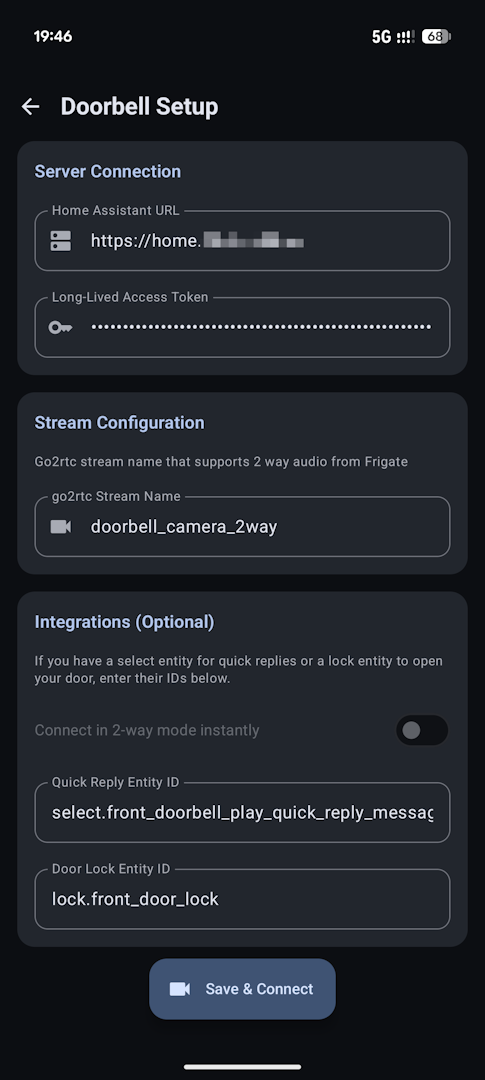
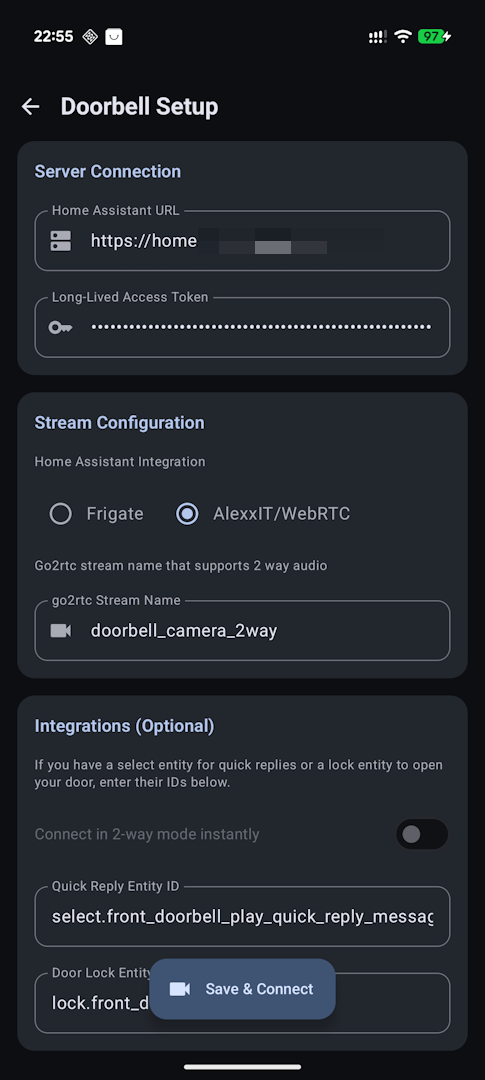
feat: add support for AlexxIT/WebRTC Integration

diff --git a/app/src/test/java/com/novasoftware/hadoorbell/integrations/HomeAssistantWebRtcClientTest.kt b/app/src/test/java/com/novasoftware/hadoorbell/integrations/HomeAssistantWebRtcClientTest.kt
@@ -13,10 +13,10 @@ import org.junit.Assert.assertEquals
 import org.junit.Before
 import org.junit.Test
 
-class FrigateSignalingClientTest {
+class HomeAssistantWebRtcClientTest {
 
     private lateinit var mockWebServer: MockWebServer
-    private lateinit var signalingClient: FrigateSignalingClient
+    private lateinit var signalingClient: HomeAssistantWebRtcClient
 
     @Before
     fun setup() {
@@ -24,7 +24,7 @@ class FrigateSignalingClientTest {
         mockWebServer.start()
 
         val baseUrl = mockWebServer.url("/").toString()
-        signalingClient = FrigateSignalingClient(
+        signalingClient = HomeAssistantWebRtcClient(
             haUrl = baseUrl,
             token = "test_token",
             streamName = "front_door"
@@ -42,7 +42,8 @@ class FrigateSignalingClientTest {
     }
 
     @Test
-    fun `connect authenticates and connects to stream websocket`() = runBlocking {
+    fun `connect authenticates and connects to stream websocket using default frigate provider`() = runBlocking {
+        var isPathCorrect = false
         // We need to enqueue a WebSocket response for the auth phase
         mockWebServer.enqueue(MockResponse().withWebSocketUpgrade(object : WebSocketListener() {
             override fun onOpen(webSocket: WebSocket, response: Response) {
@@ -56,6 +57,7 @@ class FrigateSignalingClientTest {
                 if (text.contains("auth\"") && text.contains("test_token")) {
                     webSocket.send("""{"type": "auth_ok"}""")
                 } else if (text.contains("auth/sign_path")) {
+                    isPathCorrect = text.contains("api/frigate/frigate/mse/api/ws")
                     // Send back a successful signed path pointing to a second mock websocket
                     webSocket.send("""
                         {
@@ -104,5 +106,52 @@ class FrigateSignalingClientTest {
         assertEquals("mock_ice_candidate", candidate)
         
         signalingClient.disconnect()
+        
+        // Assert the correct path was requested
+        assert(isPathCorrect)
+    }
+
+    @Test
+    fun `connect authenticates and connects to stream websocket using webrtc provider`() = runBlocking {
+        var isPathCorrect = false
+        val webrtcClient = HomeAssistantWebRtcClient(
+            haUrl = mockWebServer.url("/").toString(),
+            token = "test_token",
+            streamName = "front_door",
+            provider = "webrtc"
+        )
+
+        mockWebServer.enqueue(MockResponse().withWebSocketUpgrade(object : WebSocketListener() {
+            override fun onOpen(webSocket: WebSocket, response: Response) {
+                webSocket.send("""{"type": "auth_required"}""")
+            }
+
+            override fun onMessage(webSocket: WebSocket, text: String) {
+                if (text.contains("auth\"") && text.contains("test_token")) {
+                    webSocket.send("""{"type": "auth_ok"}""")
+                } else if (text.contains("auth/sign_path")) {
+                    isPathCorrect = text.contains("api/webrtc/ws")
+                    webSocket.send("""
+                        {
+                            "id": 1,
+                            "type": "result",
+                            "success": true,
+                            "result": { "path": "/api/stream/ws" }
+                        }
+                    """.trimIndent())
+                }
+            }
+        }))
+
+        mockWebServer.enqueue(MockResponse().withWebSocketUpgrade(object : WebSocketListener() {
+            override fun onOpen(webSocket: WebSocket, response: Response) {}
+            override fun onMessage(webSocket: WebSocket, text: String) {}
+        }))
+
+        webrtcClient.connect()
+        webrtcClient.disconnect()
+
+        // Assert the correct path was requested
+        assert(isPathCorrect)
     }
 }

diff --git a/app/src/main/java/com/novasoftware/hadoorbell/ui/screens/SettingsScreen.kt b/app/src/main/java/com/novasoftware/hadoorbell/ui/screens/SettingsScreen.kt
@@ -62,6 +62,7 @@ fun SettingsScreen(
     var quickReplyEntityId by remember { mutableStateOf("") }
     var lockEntityId by remember { mutableStateOf("") }
     var instantTwoWayAudio by remember { mutableStateOf(false) }
+    var webrtcProvider by remember { mutableStateOf("frigate") }
 
     // Load initial values
     LaunchedEffect(Unit) {
@@ -81,6 +82,9 @@ fun SettingsScreen(
     }
     LaunchedEffect(Unit) {
         appPreferences.instantTwoWayAudioFlow.collect { instantTwoWayAudio = it }
+    }
+    LaunchedEffect(Unit) {
+        appPreferences.webrtcProviderFlow.collect { webrtcProvider = it }
     }
 
     LaunchedEffect(quickReplyEntityId) {
@@ -109,7 +113,7 @@ fun SettingsScreen(
             ExtendedFloatingActionButton(
                 onClick = {
                     coroutineScope.launch {
-                        appPreferences.saveSettings(url, token, streamSource, quickReplyEntityId, lockEntityId, instantTwoWayAudio)
+                        appPreferences.saveSettings(url, token, streamSource, quickReplyEntityId, lockEntityId, instantTwoWayAudio, webrtcProvider)
                         onSave()
                     }
                 },
@@ -194,7 +198,33 @@ fun SettingsScreen(
                     )
                     
                     Text(
-                        "Go2rtc stream name that supports 2 way audio from Frigate",
+                        "Home Assistant Integration",
+                        style = MaterialTheme.typography.bodySmall,
+                        color = MaterialTheme.colorScheme.onSurfaceVariant
+                    )
+
+                    Row(
+                        modifier = Modifier.fillMaxWidth(),
+                        horizontalArrangement = Arrangement.spacedBy(16.dp)
+                    ) {
+                        Row(verticalAlignment = Alignment.CenterVertically) {
+                            androidx.compose.material3.RadioButton(
+                                selected = webrtcProvider == "frigate",
+                                onClick = { webrtcProvider = "frigate" }
+                            )
+                            Text("Frigate")
+                        }
+                        Row(verticalAlignment = Alignment.CenterVertically) {
+                            androidx.compose.material3.RadioButton(
+                                selected = webrtcProvider == "webrtc",
+                                onClick = { webrtcProvider = "webrtc" }
+                            )
+                            Text("AlexxIT/WebRTC")
+                        }
+                    }
+                    
+                    Text(
+                        "Go2rtc stream name that supports 2 way audio",
                         style = MaterialTheme.typography.bodySmall,
                         color = MaterialTheme.colorScheme.onSurfaceVariant
                     )

diff --git a/app/src/main/java/com/novasoftware/hadoorbell/ui/screens/StreamScreen.kt b/app/src/main/java/com/novasoftware/hadoorbell/ui/screens/StreamScreen.kt
@@ -4,7 +4,7 @@ import android.widget.Toast
 import androidx.compose.animation.core.*
 import com.novasoftware.hadoorbell.data.AppPreferences
 import com.novasoftware.hadoorbell.integrations.HomeAssistantApiClient
-import com.novasoftware.hadoorbell.integrations.FrigateSignalingClient
+import com.novasoftware.hadoorbell.integrations.HomeAssistantWebRtcClient
 import com.novasoftware.hadoorbell.webrtc.WebRtcManager
 import androidx.compose.foundation.background
 import androidx.compose.foundation.clickable
@@ -98,6 +98,7 @@ fun StreamScreen(
                     val url = appPreferences.haUrlFlow.first() ?: ""
                     val token = appPreferences.haTokenFlow.first() ?: ""
                     val streamSource = appPreferences.streamSourceFlow.first() ?: ""
+                    val provider = appPreferences.webrtcProviderFlow.first()
                     quickReplyEntityId = appPreferences.quickReplyEntityIdFlow.first() ?: ""
                     lockEntityId = appPreferences.lockEntityIdFlow.first() ?: ""
                     
@@ -114,7 +115,7 @@ fun StreamScreen(
                         }
                     }
 
-                    val signalingClient = FrigateSignalingClient(url, token, streamSource)
+                    val signalingClient = HomeAssistantWebRtcClient(url, token, streamSource, provider)
 
                     webRtcManager = WebRtcManager(context, signalingClient, coroutineScope)
                 }
@@ -315,8 +316,9 @@ fun StreamScreen(
                             val url = appPreferences.haUrlFlow.first() ?: ""
                             val token = appPreferences.haTokenFlow.first() ?: ""
                             val streamSource = appPreferences.streamSourceFlow.first() ?: ""
+                            val provider = appPreferences.webrtcProviderFlow.first()
                             
-                            val signalingClient = FrigateSignalingClient(url, token, streamSource)
+                            val signalingClient = HomeAssistantWebRtcClient(url, token, streamSource, provider)
                             webRtcManager = WebRtcManager(context, signalingClient, coroutineScope)
                             isSwitchingModes = false
                         }

diff --git a/app/src/test/java/com/novasoftware/hadoorbell/ui/screens/SettingsScreenTest.kt b/app/src/test/java/com/novasoftware/hadoorbell/ui/screens/SettingsScreenTest.kt
@@ -57,7 +57,7 @@ class SettingsScreenTest {
         composeTestRule.onNodeWithText("Doorbell Setup").assertIsDisplayed()
         composeTestRule.onNodeWithText("Home Assistant URL").assertIsDisplayed()
         composeTestRule.onNodeWithText("Long-Lived Access Token").assertIsDisplayed()
-        composeTestRule.onNodeWithText("go2rtc Stream Name").assertIsDisplayed()
+        composeTestRule.onNodeWithText("go2rtc Stream Name").performScrollTo().assertIsDisplayed()
         composeTestRule.onNodeWithText("Quick Reply Entity ID").performScrollTo().assertIsDisplayed()
         composeTestRule.onNodeWithText("Door Lock Entity ID").performScrollTo().assertIsDisplayed()
         composeTestRule.onNodeWithText("Save & Connect", useUnmergedTree = true).assertIsDisplayed()
@@ -83,6 +83,7 @@ class SettingsScreenTest {
             .performTextInput("http://test.local:8123")
         
         composeTestRule.onNodeWithText("go2rtc Stream Name")
+            .performScrollTo()
             .performTextInput("camera1")
 
         // Click save
@@ -137,5 +138,26 @@ class SettingsScreenTest {
         switchNode.performClick()
         composeTestRule.waitForIdle()
         switchNode.assertIsOn()
+    }
+
+    @Test
+    fun `webrtc provider options are displayed and can be selected`() {
+        composeTestRule.setContent {
+            androidx.compose.material3.MaterialTheme {
+                SettingsScreen(
+                    appPreferences = appPreferences,
+                    onSave = {}, onCancel = {}, canCancel = false
+                )
+            }
+        }
+
+        // Verify elements exist
+        composeTestRule.onNodeWithText("Home Assistant Integration").performScrollTo().assertIsDisplayed()
+        composeTestRule.onNodeWithText("Frigate").performScrollTo().assertIsDisplayed()
+        composeTestRule.onNodeWithText("AlexxIT/WebRTC").performScrollTo().assertIsDisplayed()
+
+        // Select AlexxIT/WebRTC
+        composeTestRule.onNodeWithText("AlexxIT/WebRTC").performScrollTo().performClick()
+        composeTestRule.waitForIdle()
     }
 }

diff --git a/app/src/main/java/com/novasoftware/hadoorbell/integrations/HomeAssistantWebRtcClient.kt b/app/src/main/java/com/novasoftware/hadoorbell/integrations/HomeAssistantWebRtcClient.kt
@@ -11,10 +11,11 @@ import kotlinx.coroutines.CoroutineScope
 import kotlinx.coroutines.Dispatchers
 import kotlinx.coroutines.launch
 
-class FrigateSignalingClient(
+class HomeAssistantWebRtcClient(
     private val haUrl: String,
     private val token: String,
-    private val streamName: String
+    private val streamName: String,
+    private val provider: String = "frigate"
 ) {
 
     private val client = OkHttpClient()
@@ -39,7 +40,11 @@ class FrigateSignalingClient(
                         val authMsg = mapOf("type" to "auth", "access_token" to token)
                         webSocket.send(gson.toJson(authMsg))
                     } else if (type == "auth_ok") {
-                        val path = "/api/frigate/frigate/mse/api/ws?src=$streamName"
+                        val path = if (provider == "webrtc") {
+                            "/api/webrtc/ws?url=$streamName"
+                        } else {
+                            "/api/frigate/frigate/mse/api/ws?src=$streamName"
+                        }
                         val signMsg = mapOf(
                             "id" to 1,
                             "type" to "auth/sign_path",
@@ -116,12 +121,12 @@ class FrigateSignalingClient(
                                 pendingOfferContinuation = null
                             }
                         } catch (e: Exception) {
-                            Log.e("FrigateSignaling", "Error parsing message", e)
+                            Log.e("HomeAssistantWebRtc", "Error parsing message", e)
                         }
                     }
 
                     override fun onFailure(webSocket: WebSocket, t: Throwable, response: Response?) {
-                        Log.e("FrigateSignaling", "WebSocket failure", t)
+                        Log.e("HomeAssistantWebRtc", "WebSocket failure", t)
                         if (continuation.isActive) continuation.resumeWithException(t)
                         pendingOfferContinuation?.resumeWithException(t)
                         pendingOfferContinuation = null

diff --git a/app/src/main/java/com/novasoftware/hadoorbell/data/AppPreferences.kt b/app/src/main/java/com/novasoftware/hadoorbell/data/AppPreferences.kt
@@ -20,6 +20,7 @@ class AppPreferences(private val context: Context) {
         val QUICK_REPLY_ENTITY_ID = stringPreferencesKey("quick_reply_entity_id")
         val LOCK_ENTITY_ID = stringPreferencesKey("lock_entity_id")
         val INSTANT_TWO_WAY_AUDIO = booleanPreferencesKey("instant_two_way_audio")
+        val WEBRTC_PROVIDER = stringPreferencesKey("webrtc_provider")
     }
 
     val haUrlFlow: Flow<String?> = context.dataStore.data.map { it[HA_URL]?.trim() }
@@ -28,8 +29,9 @@ class AppPreferences(private val context: Context) {
     val quickReplyEntityIdFlow: Flow<String?> = context.dataStore.data.map { it[QUICK_REPLY_ENTITY_ID]?.trim() }
     val lockEntityIdFlow: Flow<String?> = context.dataStore.data.map { it[LOCK_ENTITY_ID]?.trim() }
     val instantTwoWayAudioFlow: Flow<Boolean> = context.dataStore.data.map { it[INSTANT_TWO_WAY_AUDIO] ?: false }
+    val webrtcProviderFlow: Flow<String> = context.dataStore.data.map { it[WEBRTC_PROVIDER] ?: "frigate" }
 
-    suspend fun saveSettings(url: String, token: String, source: String, quickReplyEntityId: String, lockEntityId: String, instantTwoWayAudio: Boolean = false) {
+    suspend fun saveSettings(url: String, token: String, source: String, quickReplyEntityId: String, lockEntityId: String, instantTwoWayAudio: Boolean = false, provider: String = "frigate") {
         context.dataStore.edit { preferences ->
             var finalUrl = url.trim().trimEnd('/')
             if (finalUrl.isNotBlank() && !finalUrl.startsWith("http://") && !finalUrl.startsWith("https://")) {
@@ -41,6 +43,7 @@ class AppPreferences(private val context: Context) {
             preferences[QUICK_REPLY_ENTITY_ID] = quickReplyEntityId.trim()
             preferences[LOCK_ENTITY_ID] = lockEntityId.trim()
             preferences[INSTANT_TWO_WAY_AUDIO] = instantTwoWayAudio
+            preferences[WEBRTC_PROVIDER] = provider
         }
     }
 }

diff --git a/app/src/main/java/com/novasoftware/hadoorbell/webrtc/WebRtcManager.kt b/app/src/main/java/com/novasoftware/hadoorbell/webrtc/WebRtcManager.kt
@@ -3,7 +3,7 @@ package com.novasoftware.hadoorbell.webrtc
 import android.content.Context
 import android.media.AudioManager
 import android.util.Log
-import com.novasoftware.hadoorbell.integrations.FrigateSignalingClient
+import com.novasoftware.hadoorbell.integrations.HomeAssistantWebRtcClient
 import kotlinx.coroutines.CoroutineScope
 import kotlinx.coroutines.Dispatchers
 import kotlinx.coroutines.launch
@@ -31,7 +31,7 @@ import kotlin.coroutines.resumeWithException
 
 class WebRtcManager(
     private val context: Context,
-    private val signalingClient: FrigateSignalingClient,
+    private val signalingClient: HomeAssistantWebRtcClient,
     private val coroutineScope: CoroutineScope
 ) {
     private var peerConnectionFactory: PeerConnectionFactory? = null

diff --git a/README.md b/README.md
@@ -9,7 +9,7 @@
 [![License: GPL v3](https://img.shields.io/badge/license-GPL--v3-blue?style=flat&logo=gnu)](LICENSE.txt)
 [![AI-DECLARATION: auto](https://img.shields.io/badge/䷼%20AI--DECLARATION-auto-ede9fe?labelColor=ede9fe)](AI-DECLARATION.md)
 
-An Android doorbell application built for Home Assistant. Integrates with Frigate's built-in `go2rtc` proxy for 2-way audio and video streaming.
+An Android doorbell application built for Home Assistant. Integrates with built-in `go2rtc` from the Frigate or AlexxIT/WebRTC integrations for 2-way audio and video streaming.
 
 ## Features
 
@@ -20,10 +20,10 @@ An Android doorbell application built for Home Assistant. Integrates with Frigat
 
 ## Requirements
 
-This app directly hooks into Frigate for 2-way audio support.
+This app directly hooks into Frigate or AlexxIT/WebRTC for 2-way audio support.
 
 1. **Home Assistant**
-2. **Frigate Integration** 
+2. **Frigate Integration** OR **AlexxIT/WebRTC Integration** 
 
 ## App Setup
 
@@ -34,6 +34,7 @@ When you first launch the app, you will be prompted for:
 3. **go2rtc Stream Name**: The exact name of the camera stream as configured in Frigate's go2rtc config (e.g., `front_door_camera`).
 
 ### Optional Integrations
+
 
 - **Connect in 2-way mode instantly**: Optionally enable this toggle to skip the initial receive-only mode and hook directly into 2-way audio when the stream opens. *(Note: This feature is mutually exclusive with Quick Replies).*
 - **Quick Reply Entity ID**: Provide the ID of a `select` entity (e.g., `select.doorbell_quick_reply`) to enable instant pre-recorded messages. Entering an entity here will automatically disable the instant 2-way mode above to prevent audio conflicts.
